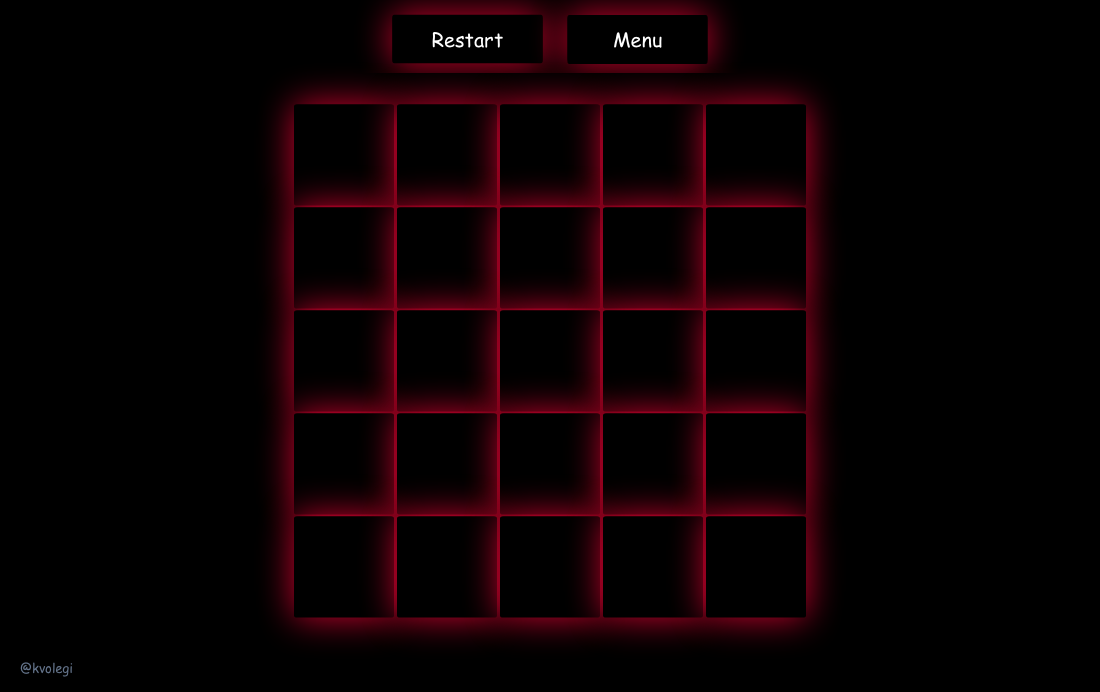
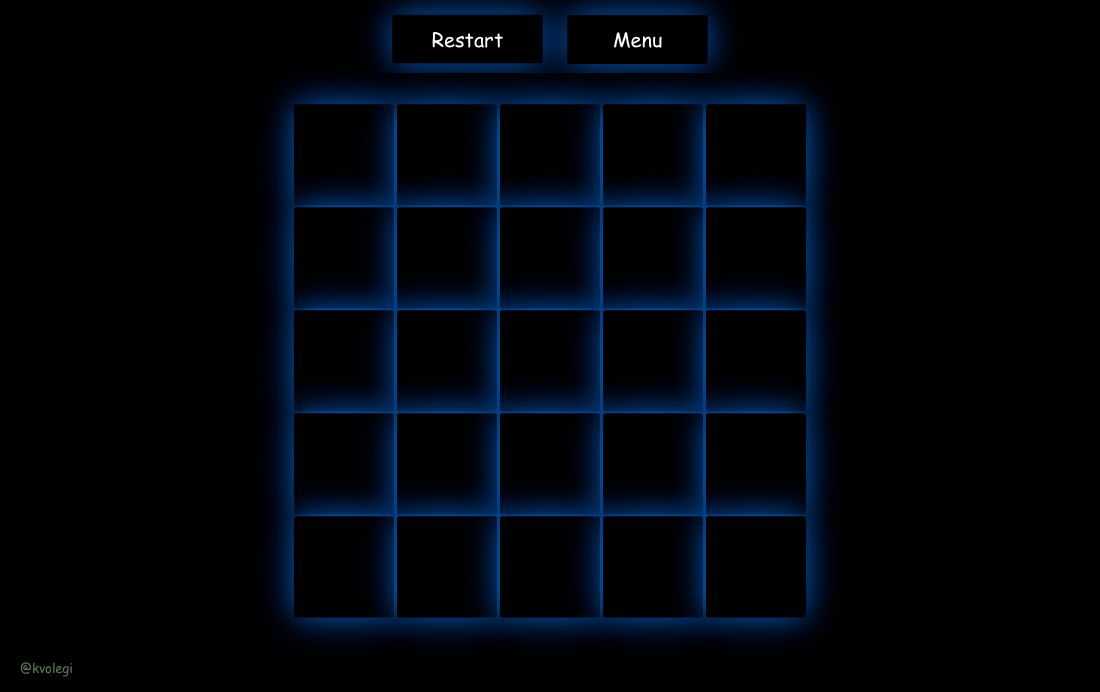
docs: eliminate red color palette across screenshots in favor of Electric Cyan, Cyberpunk Purple, and Emerald neon

Changed region(s): [[0.2473, 0.0, 0.7727, 0.9408], [0.0309, 0.9408, 0.0618, 0.9711]]

diff --git a/README.md b/README.md
@@ -48,12 +48,12 @@ The suite bundles four complete arcade games with a shared Cyberpunk / Neon visu
 
 | Desktop Edition (macOS / Linux / Windows) | Mobile Edition (Android APK) |
 | :---: | :---: |
-| ![PC Arcade Hub](docs/screenshots/pc_arcade_hub.png) <br> *Main Arcade Hub (Red JavaFX Bloom)* | ![Mobile Arcade Hub](docs/screenshots/mobile_arcade_hub.png) <br> *Main Arcade Hub (Teal Native Android Glow)* |
-| ![PC Tic Tac Toe](docs/screenshots/pc_ttt_board.png) <br> *Adaptive Grid (5x5 → 7x7 → 10x10, Green Bloom)* | ![Mobile Tic Tac Toe](docs/screenshots/mobile_ttt_board.png) <br> *Active Gameplay Grid (Crimson Neon, Zero-Overlay Board)* |
-| ![PC Sigma Slots](docs/screenshots/pc_slots_game.png) <br> *20-Line Vegas Slots (JavaFX)* | ![Mobile Sigma Slots](docs/screenshots/mobile_slots_game.png) <br> *20-Line Vegas Slots (Native Android Layout)* |
+| ![PC Arcade Hub](docs/screenshots/pc_arcade_hub.png) <br> *Main Arcade Hub (Electric Cyan JavaFX Bloom)* | ![Mobile Arcade Hub](docs/screenshots/mobile_arcade_hub.png) <br> *Main Arcade Hub (Cyberpunk Purple Android Glow)* |
+| ![PC Tic Tac Toe](docs/screenshots/pc_ttt_board.png) <br> *Adaptive Grid (5x5 → 7x7 → 10x10, Emerald Bloom)* | ![Mobile Tic Tac Toe](docs/screenshots/mobile_ttt_board.png) <br> *Active Gameplay Grid (Electric Violet Neon, Zero-Overlay Board)* |
+| ![PC Sigma Slots](docs/screenshots/pc_slots_game.png) <br> *20-Line Vegas Slots (Emerald & Gold JavaFX)* | ![Mobile Sigma Slots](docs/screenshots/mobile_slots_game.png) <br> *20-Line Vegas Slots (Native Android Layout)* |
 | ![PC Pay Table](docs/screenshots/pc_slots_paytable.png) <br> *High-Res Vegas Pay Table Modal (JavaFX)* | ![Mobile Audio Settings](docs/screenshots/mobile_settings.png) <br> *Dynamic Audio & Sound Settings (Android)* |
-| ![PC Beer Snake](docs/screenshots/pc_snake_game.png) <br> *Beer Snake Game Loop (JavaFX)* | ![Mobile Beer Snake](docs/screenshots/mobile_snake_game.png) <br> *Beer Snake Level 2 (Blue Neon & Pre-Game Setup)* |
-| ![PC Minesweeper](docs/screenshots/pc_mines_game.png) <br> *Bobr Minesweeper with Sonar & Flags (JavaFX)* | ![Mobile Minesweeper](docs/screenshots/mobile_mines_game.png) <br> *Bobr Minesweeper (Amber Neon & Pre-Game Setup)* |
+| ![PC Beer Snake](docs/screenshots/pc_snake_game.png) <br> *Beer Snake Game Loop (Neon Green JavaFX)* | ![Mobile Beer Snake](docs/screenshots/mobile_snake_game.png) <br> *Beer Snake Level 2 (Ice Blue Neon & Pre-Game Setup)* |
+| ![PC Minesweeper](docs/screenshots/pc_mines_game.png) <br> *Bobr Minesweeper with Sonar & Flags (Emerald JavaFX)* | ![Mobile Minesweeper](docs/screenshots/mobile_mines_game.png) <br> *Bobr Minesweeper (Amber Neon & Pre-Game Setup)* |
 
 ---
 
